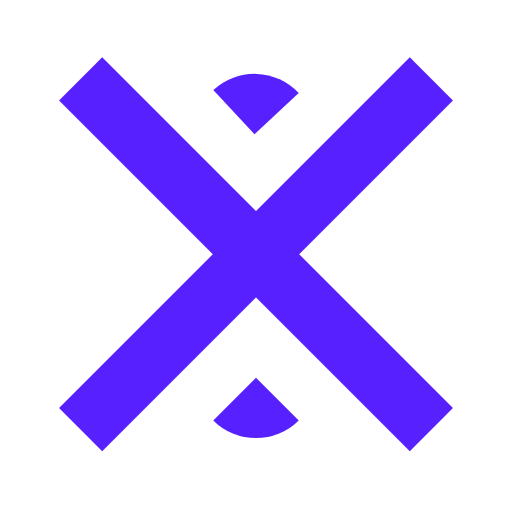
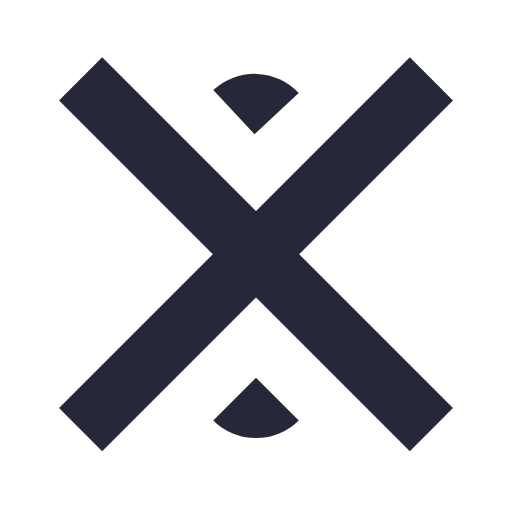
Update theme

Changed region(s): [[0.0938, 0.0938, 0.9062, 0.875], [0.4062, 0.125, 0.5938, 0.2812], [0.4062, 0.75, 0.5938, 0.875]]

diff --git a/pages/index.tsx b/pages/index.tsx
@@ -51,6 +51,7 @@ export default function Home({ data, latestPost }) {
     }
   })
   const styleMainLeft = css({
+    padding: '0 6rem 0 0',
     display: 'flex',
     flexDirection: 'column',
     justifyContent: 'space-between',
@@ -60,6 +61,9 @@ export default function Home({ data, latestPost }) {
       flexDirection: 'column-reverse',
       justifyContent: 'start',
       alignSelf: 'flex-start',
+    },
+    '@media (max-width: 480px)': {
+      padding: 0,
     }
   })
   const styleMainLeftContent = css({
@@ -69,9 +73,10 @@ export default function Home({ data, latestPost }) {
     minHeight: '0vw',
     '.titleWrapper': {
       margin: '0 0 3rem',
-      '@media (max-width: 890px)': {
-        margin: '2rem 0 2rem',
-      }
+      '.description': {
+        display: 'inline-block',
+        marginTop: '1rem',
+      },
     },
     h2: {
       fontFamily: 'var(--font-secondary)',
@@ -83,14 +88,14 @@ export default function Home({ data, latestPost }) {
         WebkitMarqueeIncrement: '0vw',
       }
     },
-    h3: {
-      marginTop: '1.2rem',
+    '.description': {
+      borderTop: '1px solid var(--color-gray)',
+      maxWidth: 600,
+      paddingTop: '1.2rem',
       fontFamily: 'var(--font-primary)',
-      fontSize: 'calc(.7vw + .7vh)',
+      fontSize: 14,
       fontWeight: 'normal',
-      '@media (max-width: 890px)': {
-        fontSize: '.7rem',
-      }
+      color: 'var(--color-gray)',
     },
     '.highlightText': {
       width: 'max-content',
@@ -172,13 +177,9 @@ export default function Home({ data, latestPost }) {
             <div css={styleMainLeft}>
               <div css={styleMainLeftContent}>
                 <div className="titleWrapper">
-                  <h2>
-                    <Intro />
-                    <div className="highlightText">
-                      {data.title}
-                    </div>
-                  </h2>
-                  <h3>{data.description}</h3>
+                  <Intro />
+                  <h2>{data.title}</h2>
+                  <span className="description">{data.description}</span>
                 </div>
                 <div css={styleButtonContainer}>
                   {GenerateCtaButtons(home.items)}

diff --git a/styles/global.tsx b/styles/global.tsx
@@ -6,28 +6,28 @@ const fontSecondary = '"Poppins", Helvetica, Arial, sans-serif'
 const fontTertiary = '"Lora", "Times New Roman", Times, serif'
 
 // Colors
-const light= '#ffffff'
-const lightAccent = '#eeeeee'
-const lighter = '#f7f7f7'
-const dark= '#14171a'
-const darkAccent = '#1e2225'
-const darker = '#343042'
-const primary = '#571AFF'
+const light= '#e4e9f8'
+const lightAccent = '#d8dbee'
+const lighter = '#d8dbed'
+const dark= '#262738'
+const darkAccent = '#333448'
+const darker = '#191a22'
+const primary = '#744164'
 const secondary = '#3dffc5'
 const grayLight = '#b0bccc'
-const grayDark = '#697075'
-const grayAccentLight = '#b8c1c7'
-const grayAccentDark = '#3e4449'
-const buttonDisabled = '#8b8b8b'
+const grayDark = '#706f8a'
+const grayAccentLight = '#b7b7c9'
+const grayAccentDark = '#4c495c'
+const buttonDisabled = '#7d7d87'
 const warning = '#ec4949'
-const codeHighlightDark = '#2e3440'
-const codeHighlightLight = '#e3e6eb'
+const codeHighlightDark = '#41425e'
+const codeHighlightLight = '#cbcfe4'
 const codeDark = '#3dffc5'
-const codeLight = '#571AFF'
+const codeLight = '#744164'
 const codeCommentDark = '#929aee'
 const codeCommentLight = '#333c41'
 const sunrise = 'linear-gradient(to bottom, #757abf 0%,#8583be 60%,#eab0d1 100%)'
-const sunset = 'linear-gradient(to bottom, #010A10 30%,#59230B 80%,#2F1107 100%)'
+const sunset = 'linear-gradient(to bottom, #111011 30%,#451f4d 80%,#311946 100%)'
 
 export function GlobalStyles () {
 

diff --git a/components/BlogLayout.tsx b/components/BlogLayout.tsx
@@ -93,7 +93,11 @@ const BlogLayout: React.FC<React.ReactNode> = (props) => {
             color: 'var(--color-gray)',
             fontSize: 13,
             lineHeight: '1.2rem',
-            '.author': {
+            '.author, .authorLink': {
+              marginBottom: 3,
+              fontFamily: 'var(--font-primary)',
+              color: 'var(--color-gray)',
+              fontSize: 13,
               display: 'flex',
               flexDirection: 'row',
               alignItems: 'center',
@@ -240,10 +244,10 @@ const BlogLayout: React.FC<React.ReactNode> = (props) => {
             },
             '.teaser': {
               fontFamily: 'var(--font-primary)',
-              fontStyle: 'italic',
+              fontSize: 15,
               color: 'var(--color-gray)',
               '@media(max-width: 1024px)': {
-                fontSize: 16,
+                fontSize: 12,
               }
             },
             'h3, h3 code': {

diff --git a/data/content.ts b/data/content.ts
@@ -17,7 +17,7 @@ export const home = {
     description: 'Front-end developer, UI designer, and React enthusiast.'
   },
   title: 'Amir Ardalan',
-  description: 'Code, design, and ideas from Portland, OR.',
+  description: `I'm a Front-end Engineer specializing in React, UI Design, and accessibility for the web. I'm passionate about Next.js, Three.js, and Web 3.0 technologies.`,
   typed: {
     heading: `interests => {`,
     line2: `// TODO: continue learning`,
@@ -79,6 +79,7 @@ export const blogPost = {
   title: {
     draft: 'Draft –'
   },
+  twitterUrl: 'https://twitter.com/amirardalan',
 }
 
 export const about = {
@@ -579,7 +580,7 @@ export const footer = {
   ],
   copyright: {
     text: 'Copyright ©',
-    name: 'Amir Ardalan',
+    name: 'Designed & Built by Amir Ardalan',
   },
 }
 

diff --git a/components/Markdown.tsx b/components/Markdown.tsx
@@ -1,7 +1,7 @@
 import { useTheme, Global } from '@emotion/react'
 import Image from 'next/image'
 
-import { solarizedlight, tomorrow } from 'react-syntax-highlighter/dist/cjs/styles/prism'
+import { base16AteliersulphurpoolLight, tomorrow } from 'react-syntax-highlighter/dist/cjs/styles/prism'
 import ReactMarkdown from 'react-markdown'
 import { Prism as SyntaxHighlighter } from 'react-syntax-highlighter'
 import rangeParser from 'parse-numeric-range'
@@ -14,7 +14,7 @@ export default function BlogMarkdown({ markdown }) {
 
   const theme: any = useTheme()
   const setSyntaxTheme = theme.code === 'light'
-    ? solarizedlight
+    ? base16AteliersulphurpoolLight
     : tomorrow
 
   const MarkdownComponents: object = {

diff --git a/components/Track.tsx b/components/Track.tsx
@@ -21,12 +21,13 @@ export default function Track(track: any) {
         alignSelf: 'center',
       },
       '.rank': {
-        fontSize: 'calc(3vw + 3vh)',
+        fontSize: 'calc(2vw + 2vh)',
         WebkitMarqueeIncrement: '0vw',
         color: 'var(--color-accent-gray)',
       },
       '.title': {
         color: 'var(--color-text)',
+        fontSize: 24,
       },
       '.title a, .artist p': {
         lineHeight: '1.8rem',
@@ -35,6 +36,7 @@ export default function Track(track: any) {
       '.artist': {
         fontFamily: 'var(--font-primary)',
         fontWeight: 'normal',
+        fontSize: 18
       },
       '@media(max-width: 600px)': {
         gridTemplateColumns: '10% 38% 40%',

diff --git a/components/Navigation.tsx b/components/Navigation.tsx
@@ -15,6 +15,7 @@ export default function Navigation() {
     display: 'flex',
     alignItems: 'center',
     marginRight: '1.5rem',
+    fontSize: 14,
     a: {
       margin: '0 1.5rem',
       color: 'var(--color-text)',
@@ -115,13 +116,14 @@ export default function Navigation() {
       },
     },
     '.navIcon': {
-      height: 20,
-      width: 20,
+      marginTop: 1.2,
+      height: 16,
+      width: 16,
       lineHeight: 0,
       '@media(max-width: 768px)': {
         marginTop: '.8rem',
-        height: 40,
-        width: 40,
+        height: 30,
+        width: 30,
       }
     },
     '@media(max-width: 768px)': {

diff --git a/components/Footer.tsx b/components/Footer.tsx
@@ -87,7 +87,7 @@ export default function Footer() {
     padding: '4rem 0 2rem 0',
   })
   const styleCopyright = css({
-    fontFamily: 'var(--font-secondary)',
+    fontFamily: 'var(--font-primary)',
     fontSize: 10,
     color: 'var(--color-bg)',
     lineHeight: '1.2rem',
@@ -175,7 +175,7 @@ export default function Footer() {
       </div>
       <div css={styleCopyright}>
         <div>
-          {footer.copyright.text} {(new Date().getFullYear())} – {footer.copyright.name}
+          {footer.copyright.name} - {footer.copyright.text} {(new Date().getFullYear())}
         </div>
       </div>
     </footer>

diff --git a/styles/theme.tsx b/styles/theme.tsx
@@ -3,8 +3,8 @@ export const themeLight = {
   logo: '/logo/logo-light.svg',
   logoFooter: '/logo/logo-footer-light.svg',
   code: 'light',
-  canvas: '#571AFF',
-  intro: `Hi, 👋 I'm`,
+  canvas: '#744164',
+  intro: `👋 Hi, my name is`,
   icons: {
     github: '/icons/github-light.svg',
     twitter: '/icons/twitter-light.svg',
@@ -27,7 +27,7 @@ export const themeDark = {
   logoFooter: '/logo/logo-footer-dark.svg',
   code: 'dark',
   canvas: '#3dffc5',
-  intro: `Hi, ✌ I'm`,
+  intro: `✌ Hi, my name is`,
   icons: {
     github: '/icons/github-dark.svg',
     twitter: '/icons/twitter-dark.svg',

diff --git a/components/LatestPost.tsx b/components/LatestPost.tsx
@@ -6,7 +6,7 @@ export default function LatestPost({ latestPost, data }) {
 
   const styleLatestPost = css({
     fontWeight: 'normal',
-    marginTop: '3rem',
+    marginTop: '1rem',
     h4: {
       marginBottom: '.6rem',
       color: 'var(--color-text)',
@@ -55,7 +55,7 @@ export default function LatestPost({ latestPost, data }) {
       <h5>
         <Link href={`/blog/${encodeURIComponent(renderLatestPost?.slug)}`}>
           <a aria-label={renderLatestPost?.title} tabIndex={0}>
-            {renderLatestPost?.title} →
+            {renderLatestPost?.title}
           </a>
         </Link>
       </h5>

diff --git a/pages/blog/[slug].tsx b/pages/blog/[slug].tsx
@@ -149,7 +149,9 @@ const Post = ({ post, feed, data }) => {
                 <span className="avatar">
                   <Avatar height="18" width="18" />
                 </span>
-                {post?.author?.name || 'Unknown author'}
+                <a className="authorLink" href={blogPost.twitterUrl} target="_blank" rel="noreferrer">
+                  {post?.author?.name || 'Unknown author'}
+                </a>
               </div>
               {isEdited ? `Updated: ${editDate}`: publishDate } • {postReadTime}
             </div>

diff --git a/components/Intro.tsx b/components/Intro.tsx
@@ -1,7 +1,16 @@
-import { useTheme } from '@emotion/react'
+import { useTheme, css } from '@emotion/react'
+
+const styleIntro = css({
+  marginBottom: '.5rem',
+  display: 'inline-block',
+  fontFamily: 'var(--font-primary)',
+  fontWeight: 'normal',
+  fontSize: 17,
+  color: 'var(--color-accent-color)'
+})
 
 export default function Intro() {
   const theme: any = useTheme()
 
-  return theme.intro
+  return <span css={styleIntro}>{theme.intro}</span>
 }
